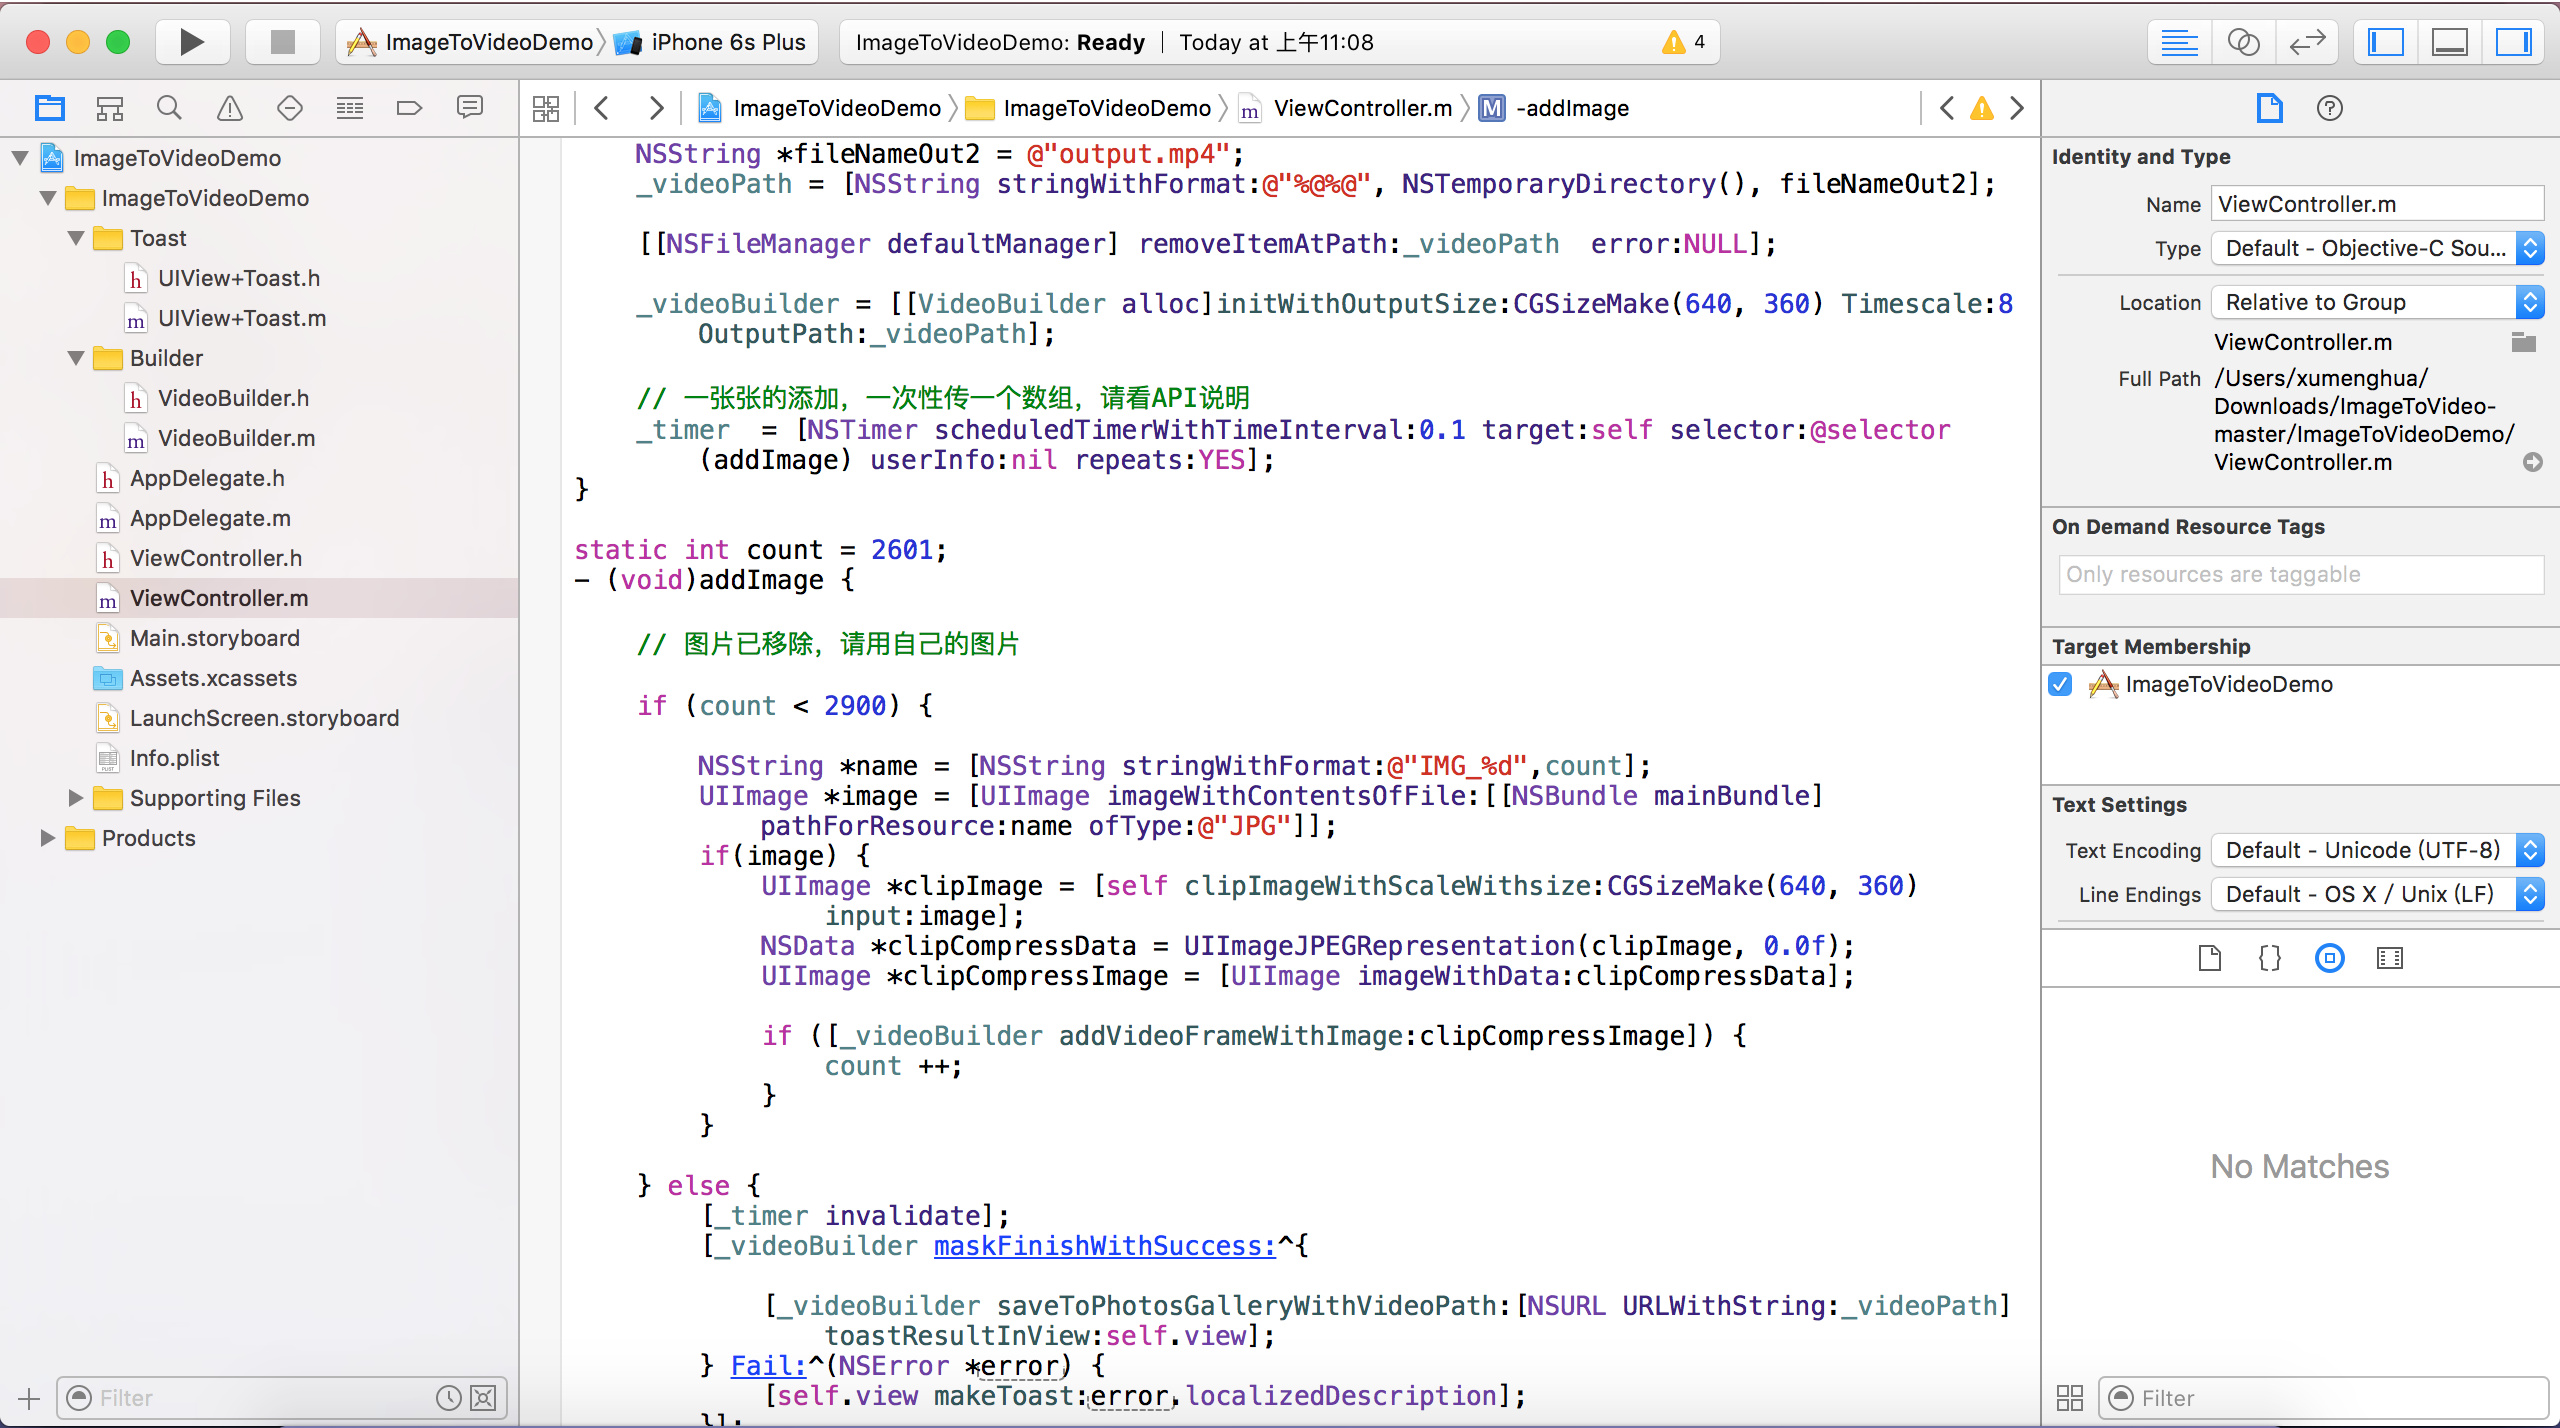
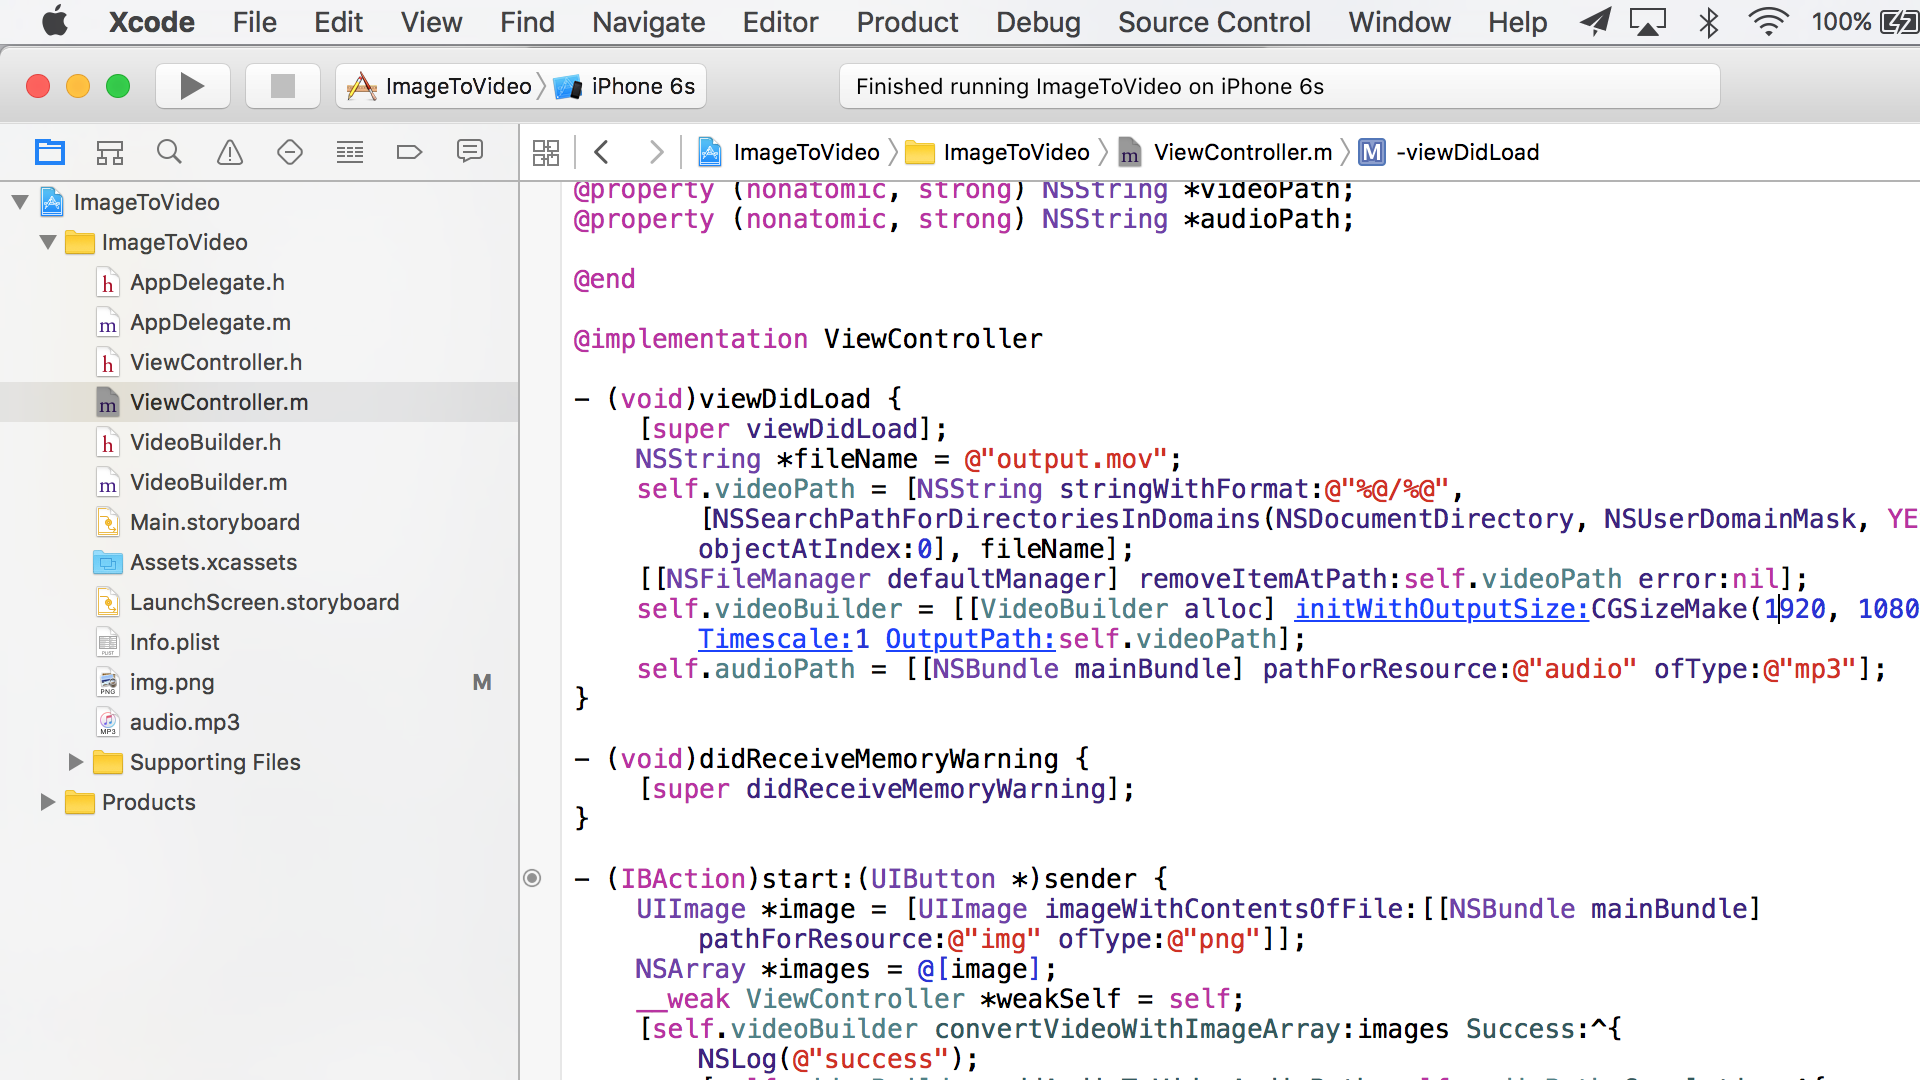
fix bug

Changed region(s): [[0.0, 0.0, 1.0, 0.7639], [0.0, 0.7944, 1.0, 1.0]]

diff --git a/ImageToVideo/VideoBuilder.m b/ImageToVideo/VideoBuilder.m
@@ -244,7 +244,15 @@
 
 
 - (CVPixelBufferRef)pixelBufferFromCGImage:(CGImageRef)image {
-    
+    CGFloat w = CGImageGetWidth(image);
+    CGFloat h = CGImageGetHeight(image);
+    if (w >= h) {
+        
+    } else {
+        CGFloat t = w;
+        w = h;
+        h = t;
+    }
     if (image) {
         NSDictionary *options = [NSDictionary dictionaryWithObjectsAndKeys:
                                  [NSNumber numberWithBool:YES],kCVPixelBufferCGImageCompatibilityKey,
@@ -252,7 +260,7 @@
         
         CVPixelBufferRef pxbuffer = NULL;
         
-        CVReturn status = CVPixelBufferCreate(kCFAllocatorDefault, CGImageGetWidth(image), CGImageGetHeight(image), kCVPixelFormatType_32ARGB,(__bridge CFDictionaryRef)options, &pxbuffer);
+        CVReturn status = CVPixelBufferCreate(kCFAllocatorDefault, w, h, kCVPixelFormatType_32ARGB,(__bridge CFDictionaryRef)options, &pxbuffer);
         
         NSParameterAssert(status == kCVReturnSuccess && pxbuffer != NULL);
 
@@ -262,12 +270,12 @@
         
         CGColorSpaceRef rgbColorSpace = CGColorSpaceCreateDeviceRGB();
         
-        CGContextRef context = CGBitmapContextCreate(pxdata, CGImageGetWidth(image), CGImageGetHeight(image), 8, 4*CGImageGetWidth(image), rgbColorSpace, kCGImageAlphaNoneSkipFirst);
+        CGContextRef context = CGBitmapContextCreate(pxdata, w, h, 8, 4*w, rgbColorSpace, kCGImageAlphaNoneSkipFirst);
 
         NSParameterAssert(context);
 
         CGContextConcatCTM(context, CGAffineTransformMakeRotation(0));
-        CGContextDrawImage(context, CGRectMake(0, 0, CGImageGetWidth(image), CGImageGetHeight(image)), image);
+        CGContextDrawImage(context, CGRectMake(0, 0, w, h), image);
         
         CGColorSpaceRelease(rgbColorSpace);
         CGContextRelease(context);

diff --git a/ImageToVideo/ViewController.m b/ImageToVideo/ViewController.m
@@ -24,7 +24,8 @@
     NSString *fileName = @"output.mov";
     self.videoPath = [NSString stringWithFormat:@"%@/%@", [NSSearchPathForDirectoriesInDomains(NSDocumentDirectory, NSUserDomainMask, YES) objectAtIndex:0], fileName];
     [[NSFileManager defaultManager] removeItemAtPath:self.videoPath error:nil];
-    self.videoBuilder = [[VideoBuilder alloc] initWithOutputSize:CGSizeMake(1920, 1080) Timescale:1 OutputPath:self.videoPath];
+    UIImage *image = [UIImage imageWithContentsOfFile:[[NSBundle mainBundle] pathForResource:@"img" ofType:@"png"]];
+    self.videoBuilder = [[VideoBuilder alloc] initWithOutputSize:CGSizeMake(image.size.width, image.size.height) Timescale:1 OutputPath:self.videoPath];
     self.audioPath = [[NSBundle mainBundle] pathForResource:@"audio" ofType:@"mp3"];
 }
 
